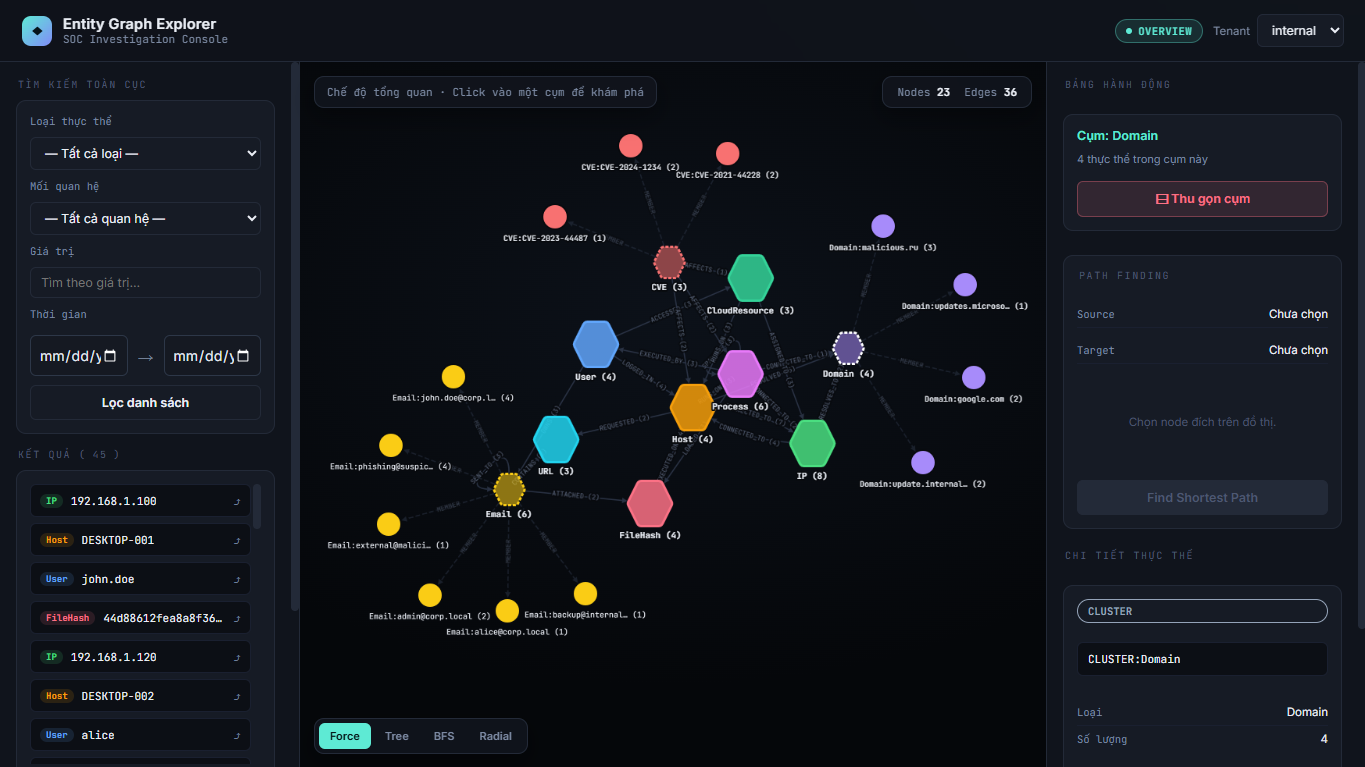
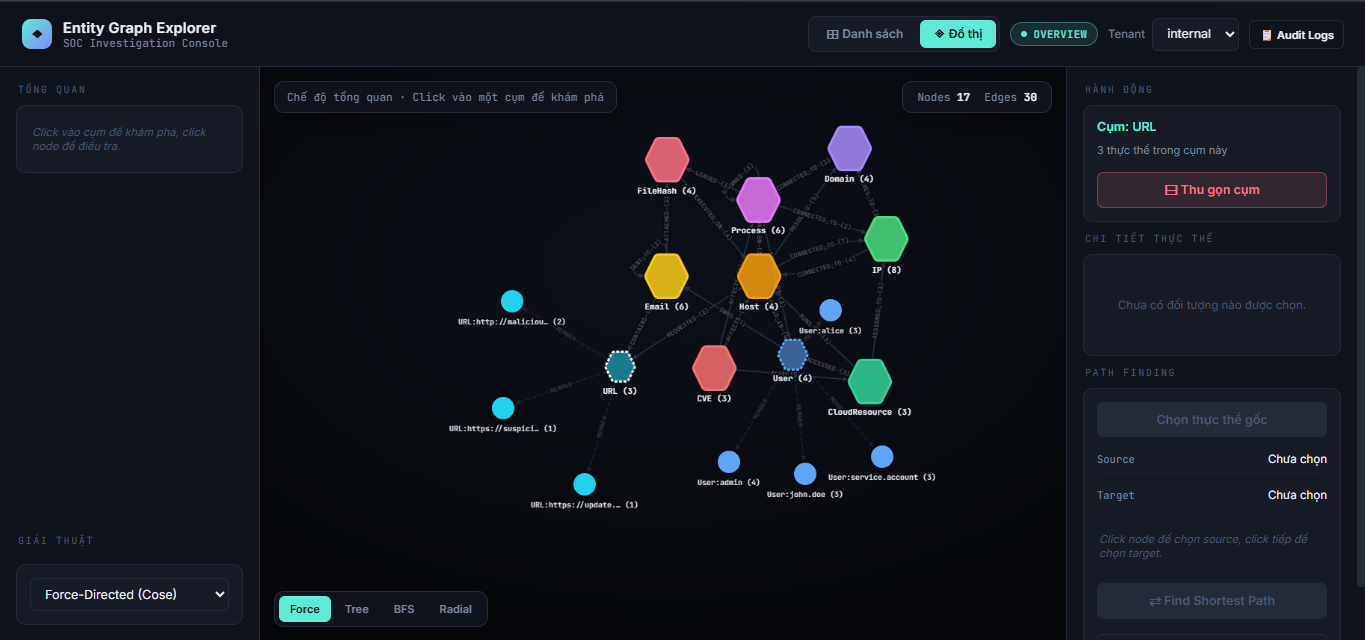
update: docs image

diff --git a/docs/architecture.md b/docs/architecture.md
@@ -105,26 +105,50 @@ I[Testing] --> F
 ## Data Model
 
 ### Entity Types
-- **User** - System users
-- **Host** - Computers/servers
-- **IP** - IP addresses
-- **Domain** - Domain names
-- **FileHash** - File hashes (MD5/SHA256)
+
+* **User** - System users
+* **Host** - Computers/servers
+* **IP** - IP addresses
+* **Domain** - Domain names
+* **FileHash** - File hashes (MD5/SHA1/SHA256)
+* **URL** - Uniform Resource Locators / Web links
+* **Process** - System processes and parent processes
+* **CloudResource** - Cloud infrastructure components (AWS ARN, S3, Instances)
+* **Email** - Electronic mail addresses (Senders and Recipients)
+* **CVE** - Common Vulnerabilities and Exposures identifiers
 
 ### Entity Properties
-- type - Entity classification
-- value - Entity identifier
-- metadata - Additional context
-- first_seen - Initial observation timestamp
-- last_seen - Most recent observation
-- source - Origin of data
+
+* type - Entity classification
+* value - Entity identifier
+* metadata - Additional context
+* first_seen - Initial observation timestamp
+* last_seen - Most recent observation
+* source - Origin of data
 
 ### Relationships
-- **related_to** - Generic connection
-- **accessed_by** - Access relationship
-- **contains** - Containment relationship
-- **executed_by** - Execution relationship
-- **resolved_to** - DNS resolution
+
+* **related_to** - Generic connection
+* **accessed_by** - Access relationship
+* **contains** - Containment relationship
+* **executed_by** - Execution relationship
+* **resolved_to** - DNS resolution
+* **LOGGED_IN** - User authentication session on a host
+* **CONNECTED_TO** - Network traffic establishment between hosts, IPs, domains, or processes
+* **EXECUTED_ON** - File hash execution on a specific endpoint
+* **RESOLVED** - DNS lookup initiated by a host or IP
+* **RESOLVES_TO** - Domain mapping to a specific IP address
+* **REQUESTED** - HTTP/HTTPS request sent to a URL by a host, IP, or process
+* **RUNS_ON** - Process or cloud resource operating on a specific host
+* **LOADED** - Process loading a library or file hash into memory
+* **SPAWNED** - Parent process creating a child process
+* **BELONGS_TO** - URL path associated with a specific domain
+* **OWNS** - User account linked to an email address
+* **HOSTED_BY** - Email service managed by a domain
+* **SENT_TO** - Email transmission between communication endpoints
+* **ACCESSED** - User interacting with a cloud resource
+* **ASSIGNED_TO** - Cloud resource bound to an IP address
+* **AFFECTS** - Security vulnerability impacting a host, process, or cloud resource
 
 ### Relationship Metadata
 - count - Frequency of relationship
